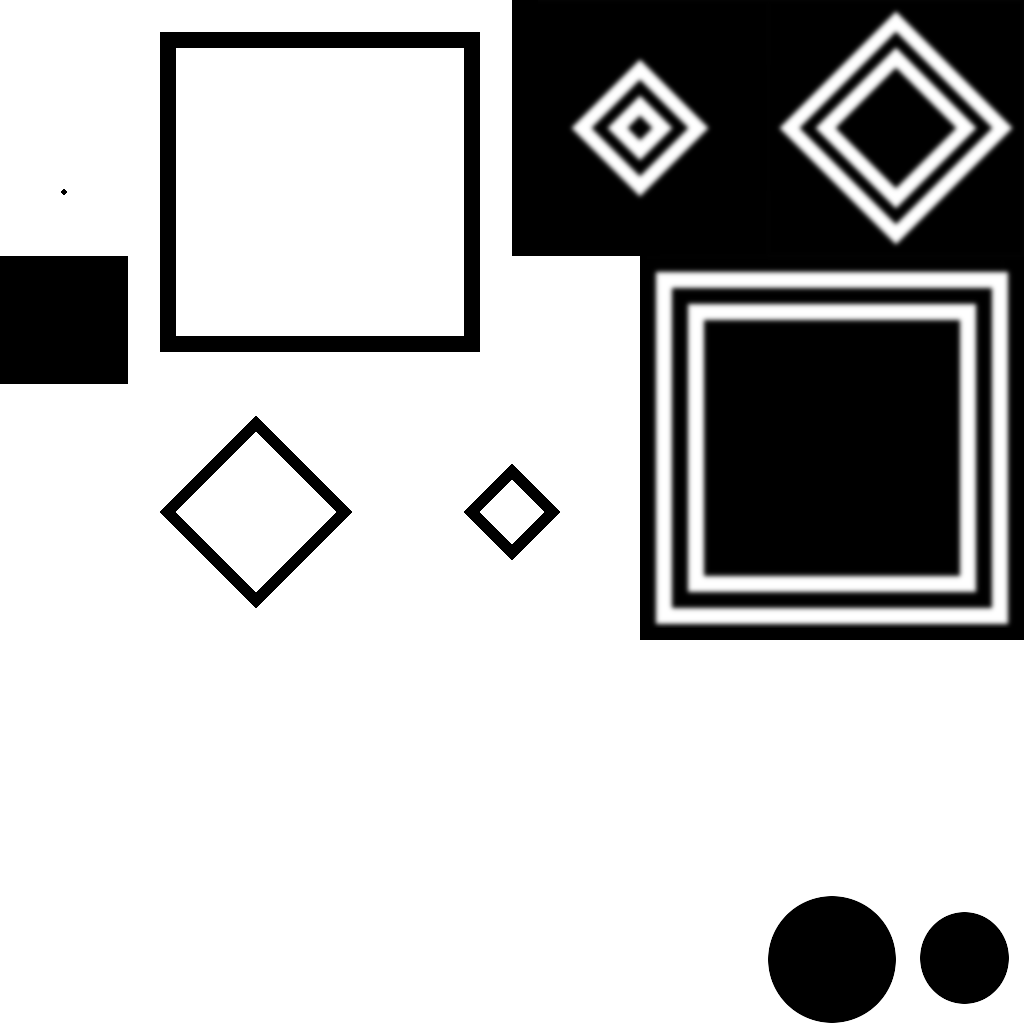
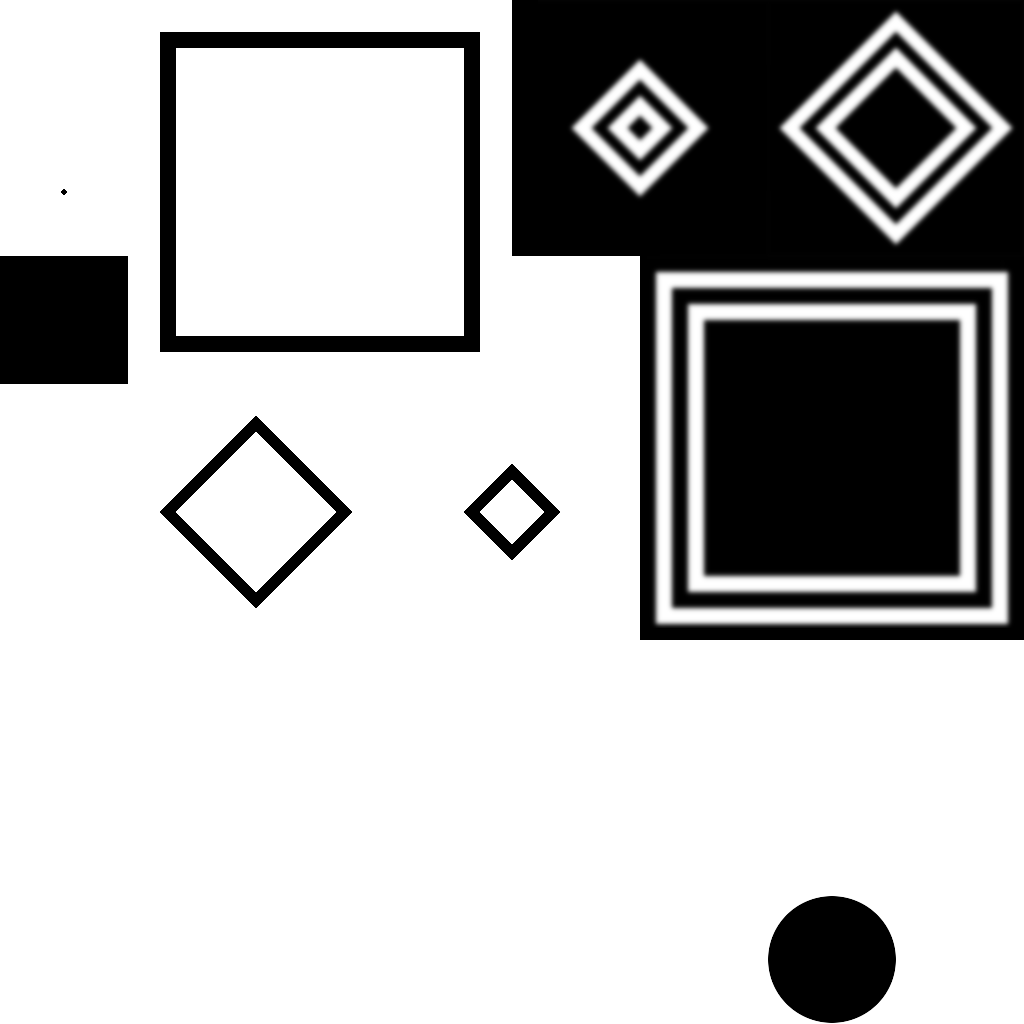
Smaller bombs!

Changed region(s): [[0.875, 0.875, 1.0, 1.0]]

diff --git a/src/com/wuballiance/ld33/Game.java b/src/com/wuballiance/ld33/Game.java
@@ -172,7 +172,7 @@ public class Game {
 					continue;
 				
 				HvlSimpleTile st = (HvlSimpleTile) map.getLayer(2).getTile(x, y);
-				if (st.getTile() == 62)
+				if (st.getTile() == smallExplosionTile)
 				{
 					bombIdleAnimations.put(new TileCoord(x, y), getSmallBombAnimation());
 				}
@@ -240,6 +240,7 @@ public class Game {
 				Explosion.activateSmallExplosion(entry.getKey().x, entry.getKey().y);
 				trAnim.add(entry.getKey());
 				Game.map.getLayer(0).setTile(entry.getKey().x, entry.getKey().y, new HvlSimpleTile(offTile));
+				bombIdleAnimations.remove(entry.getKey());
 			}
 		}
 
@@ -326,8 +327,8 @@ public class Game {
 					entry.getValue(), new Color(1, 1, 1, mapOpacity));
 		}
 		for (Map.Entry<TileCoord, HvlAnimatedTextureUV> entry : bombIdleAnimations.entrySet()) {
-			HvlPainter2D.hvlDrawQuad(entry.getKey().x * map.getTileWidth() - (map.getTileWidth() * 2.35f),
-					entry.getKey().y * map.getTileHeight() - (map.getTileHeight() * 2.35f), 5.6f * map.getTileWidth(), 5.6f * map.getTileHeight(),
+			HvlPainter2D.hvlDrawQuad(entry.getKey().x * map.getTileWidth() - (map.getTileWidth() * 0.5f),
+					entry.getKey().y * map.getTileHeight() - (map.getTileHeight() * 0.5f), 2f * map.getTileWidth(), 2f * map.getTileHeight(),
 					entry.getValue(), new Color(1, 1, 1, mapOpacity));
 		}
 		for (Explosion exp : explosions) {
